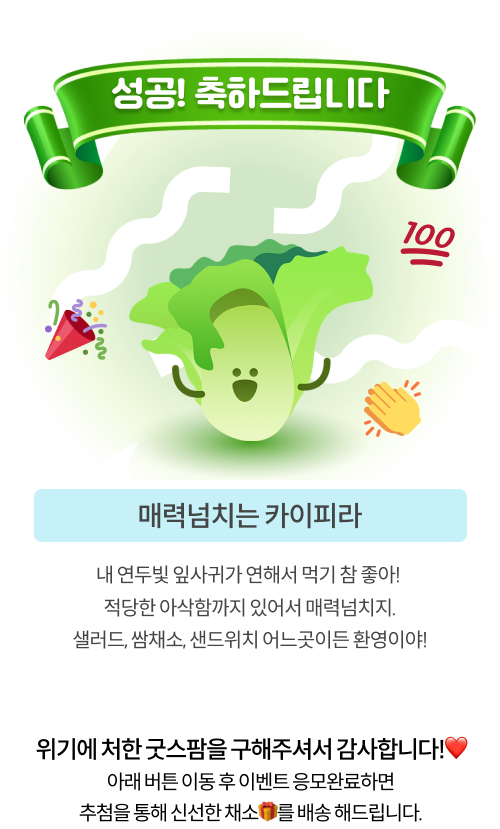
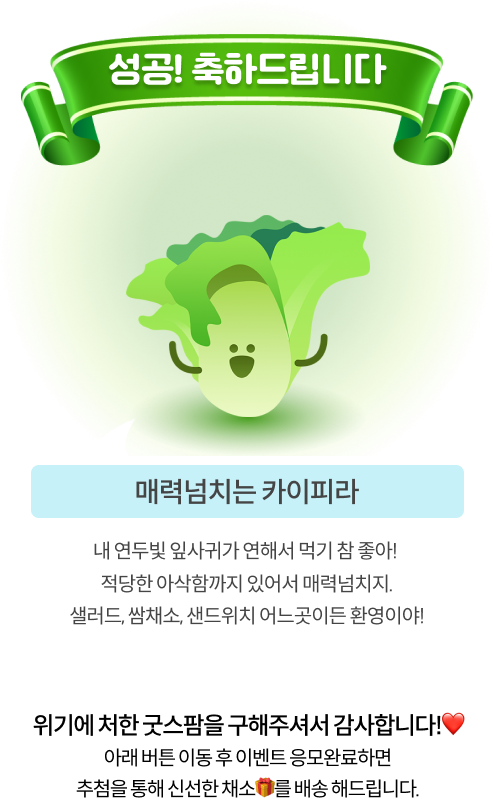
Style : Suc-animation

Changed region(s): [[0.0304, 0.0311, 0.9736, 0.8075], [0.0609, 0.8696, 0.9432, 0.9938]]

diff --git a/team_1/src/SucRM/SucRM.css b/team_1/src/SucRM/SucRM.css
@@ -10,13 +10,141 @@
   background-size: cover;
   position: relative;
 }
+.Sucparent{
+  position:relative;
+  top: -70px;
+}
+
+/* 
+@keyframes animation_Str1{
+  0% {
+      transform:translateX(0px),translateY(-200px);
+    }
+    30% {
+      transform:translatex(50px),translateY(-100px);
+    }
+    60% {
+      transform:translatex(10px), translateY(0px);
+    }
+    100% {
+      transform:translateY(200px);
+    }
+} */
+
+@keyframes transY {
+  0%{
+    transform: translateY(-200px);
+  }
+	100% {
+		transform: translateY(300px);
+    opacity: 50%;
+	}
+}
+
+
+.Str1{
+  position: relative;
+  width: 25%;
+  margin-left: auto;
+  margin-right: auto;
+  
+  top: 200px;
+  z-index: 1;
+  transform: translate(-50%, -50%);
+  animation: 1.5s transY ease-in infinite backwards;
+}
+
+.Str2{
+  position: relative;
+  width: 30%;
+  margin-left: auto;
+  margin-right: auto;
+  
+  top: 200px;
+  z-index: 1;
+  transform: translate(-50%, -50%);
+  animation: 2s transY ease-in infinite backwards;
+}
+
+.Str3{
+  position: relative;
+  width: 20%;
+  margin-left: auto;
+  margin-right: auto;
+  
+  top: 200px;
+  z-index: 1;
+  transform: translate(-50%, -50%);
+  animation: 1.5s transY ease-in infinite backwards;
+}
+
+.Str4{
+  position: relative;
+  width: 25%;
+  margin-left: auto;
+  margin-right: auto;
+  
+  top: 200px;
+  z-index: 1;
+  transform: translate(-50%, -50%);
+  animation: 2s transY ease-in infinite backwards;
+}
+
+@keyframes Emoji {
+  0%{
+    transform: translateY(-300px);
+  }
+  90% {
+    opacity: 90%;
+	}
+	100% {
+		transform: translateY(180px);
+    opacity: 0%;
+	}
+}
+
+.Emoji{
+  position: relative;
+  width: 10%;
+  left: 200px;
+  
+  top: 200px;
+  z-index: 3;
+  transform: translate(-50%, -50%);
+  animation: 1.8s Emoji ease-in infinite backwards;
+}
+
+.hun{
+  position: relative;
+  width: 13%;
+  right: 130px;
+  
+  top: 200px;
+  z-index: 3;
+  transform: translate(-50%, -50%);
+  animation: 2s Emoji ease-in infinite backwards;
+}
+
+.clap{
+  position: relative;
+  width: 10%;
+  left: 50px;
+  
+  top: 200px;
+  z-index: 3;
+  transform: translate(-50%, -50%);
+  animation: 2.3s Emoji ease-in infinite backwards;
+}
+
 
 .SucRMimg{
-  width: 100%;
+  position: relative;
+
+  width: 95%;
   height: auto;
   margin-left: auto;
   margin-right: auto;
   
-  margin-top: 0%;
-  bottom: 15%;
+  top: 0px;
+  z-index: 2;
 }

diff --git a/team_1/src/SucRM/SucRM.js b/team_1/src/SucRM/SucRM.js
@@ -5,8 +5,21 @@ function SucRM() {
    
     return( 
         <div className='SucRM'>
-            <img className="SucRMimg" alt="SucRMimg" src="img/SucRMimg.png"/>
+            <div className='Sucparent'>
+            <img className="Str1" alt="Str1" src="img/Str.png"/>
+            <img className="Str2" alt="Str2" src="img/Str.png"/>
+            <img className="Str3" alt="Str3" src="img/Str.png"/>
+            <img className="Str4" alt="Str4" src="img/Str.png"/>
+            <img className="Emoji" alt="Emoji" src="img/Emoji.png"/>
+            <img className="hun" alt="hun" src="img/hun.png"/>
+            <img className="clap" alt="clap" src="img/clap.png"/>
 
+
+
+
+            <img className="SucRMimg" alt="SucRMimg" src="img/SucRMimg.png"/>
+           
+            </div>
             <Link to="/GFInfo"><img className="Smtbtn" alt="Smtbtn" src="img/Smtbtn.png"/></Link>
     </div>
 );

diff --git a/team_1/src/SucET/SucET.js b/team_1/src/SucET/SucET.js
@@ -5,10 +5,22 @@ function SucET() {
    
     return( 
         <div className='SucET'>
+            <div className='Sucparent'>
+            <img className="Str1" alt="Str1" src="img/Str.png"/>
+            <img className="Str2" alt="Str2" src="img/Str.png"/>
+            <img className="Str3" alt="Str3" src="img/Str.png"/>
+            <img className="Str4" alt="Str4" src="img/Str.png"/>
+            <img className="Emoji" alt="Emoji" src="img/Emoji.png"/>
+            <img className="hun" alt="hun" src="img/hun.png"/>
+            <img className="clap" alt="clap" src="img/clap.png"/>
+            
             <img className="SucETimg" alt="SucETimg" src="img/SucETimg.png"/>
-
+            </div>
             <Link to="/GFInfo"><img className="Smtbtn" alt="Smtbtn" src="img/Smtbtn.png"/></Link>
     </div>
 );
 }
+
+
+
 export default SucET;

diff --git a/team_1/src/SucBH/SucBH.js b/team_1/src/SucBH/SucBH.js
@@ -5,8 +5,18 @@ function SucBH() {
    
     return( 
         <div className='SucBH'>
+            <div className='Sucparent'>
+            <img className="Str1" alt="Str1" src="img/Str.png"/>
+            <img className="Str2" alt="Str2" src="img/Str.png"/>
+            <img className="Str3" alt="Str3" src="img/Str.png"/>
+            <img className="Str4" alt="Str4" src="img/Str.png"/>
+            <img className="Emoji" alt="Emoji" src="img/Emoji.png"/>
+            <img className="hun" alt="hun" src="img/hun.png"/>
+            <img className="clap" alt="clap" src="img/clap.png"/>
+            
             <img className="SucBHimg" alt="SucBHimg" src="img/SucBHimg.png"/>
 
+            </div>
             <Link to="/GFInfo"><img className="Smtbtn" alt="Smtbtn" src="img/Smtbtn.png"/></Link>
     </div>
 );

diff --git a/team_1/src/SucKP/SucKP.js b/team_1/src/SucKP/SucKP.js
@@ -5,8 +5,18 @@ function SucKP() {
    
     return( 
         <div className='SucKP'>
+            <div className='Sucparent'>
+            <img className="Str1" alt="Str1" src="img/Str.png"/>
+            <img className="Str2" alt="Str2" src="img/Str.png"/>
+            <img className="Str3" alt="Str3" src="img/Str.png"/>
+            <img className="Str4" alt="Str4" src="img/Str.png"/>
+            <img className="Emoji" alt="Emoji" src="img/Emoji.png"/>
+            <img className="hun" alt="hun" src="img/hun.png"/>
+            <img className="clap" alt="clap" src="img/clap.png"/>
+            
             <img className="SucKPimg" alt="SucKPimg" src="img/SucKPimg.png"/>
 
+            </div>
             <Link to="/GFInfo"><img className="Smtbtn" alt="Smtbtn" src="img/Smtbtn.png"/></Link>
     </div>
 );

diff --git a/team_1/src/SucET/SucET.css b/team_1/src/SucET/SucET.css
@@ -13,25 +13,46 @@
 
 }
 
-.SucETimg{
-  display: flex;
+
+/* .Sucparent{
+  width: 100%;
+  height: auto;
+  margin-left: auto;
+  margin-right: auto;
+}
+
+.Str1{
   position:relative;
 
-  width: 100%;
+  width: 50%;
   height: auto;
   margin-left: auto;
   margin-right: auto;
   
   top: 0%;
   bottom: 15%;
+
+  z-index: 3;
+} */
+
+.SucETimg{
+  position: relative;
+
+  width: 95%;
+  height: auto;
+  margin-left: auto;
+  margin-right: auto;
+  
+  top: 0px;
+  z-index: 2;
 }
 
 .Smtbtn{
+  position: relative;
   width: 80%;
   height: auto;
   margin-left: auto;
   margin-right: auto;
   padding: 10%;
-  margin-top: 0%;
-  bottom: 10%;
+  top: -80px;
   }

diff --git a/team_1/src/SucBH/SucBH.css b/team_1/src/SucBH/SucBH.css
@@ -13,14 +13,13 @@
 }
 
 .SucBHimg{
-  display: flex;
-  position:relative;
+  position: relative;
 
-  width: 100%;
+  width: 95%;
   height: auto;
   margin-left: auto;
   margin-right: auto;
   
-  top: 0%;
-  bottom: 15%;
+  top: 0px;
+  z-index: 2;
 }

diff --git a/team_1/src/SucKP/SucKP.css b/team_1/src/SucKP/SucKP.css
@@ -13,14 +13,13 @@
 }
 
 .SucKPimg{
-  display: flex;
-  position:relative;
+  position: relative;
 
-  width: 100%;
+  width: 95%;
   height: auto;
   margin-left: auto;
   margin-right: auto;
   
-  top: 0%;
-  bottom: 15%;
+  top: 0px;
+  z-index: 2;
 }
